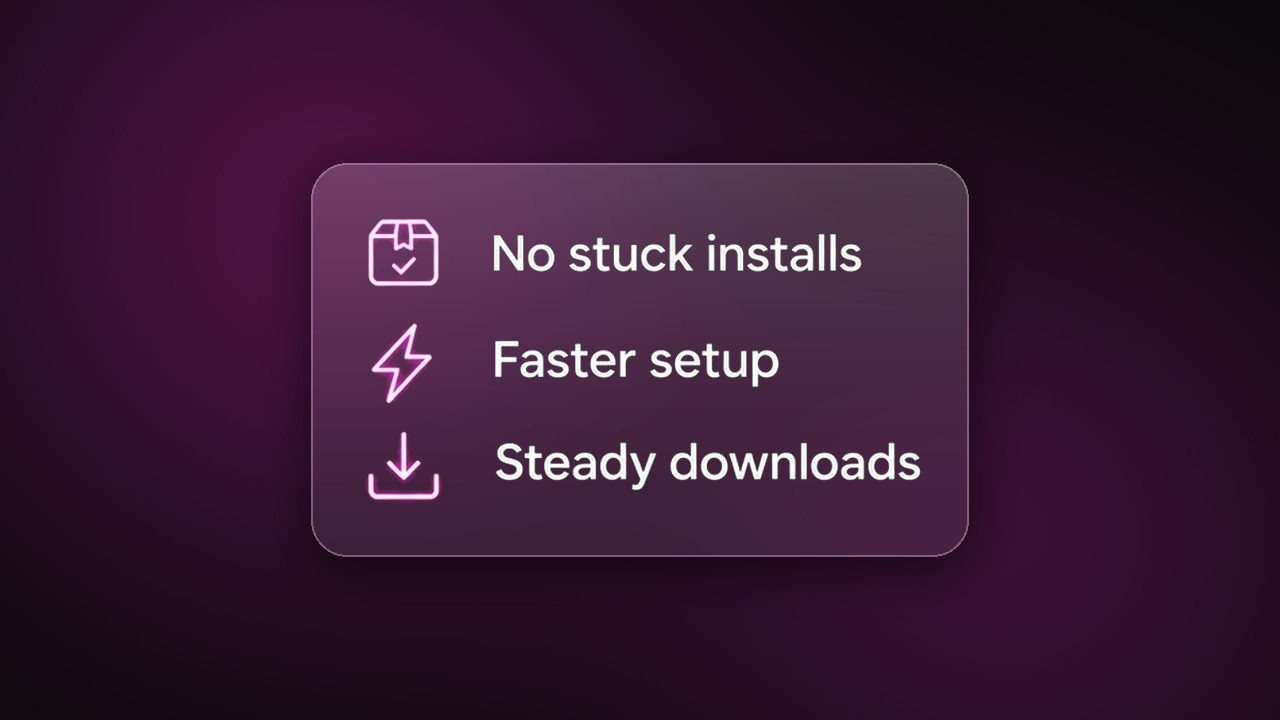
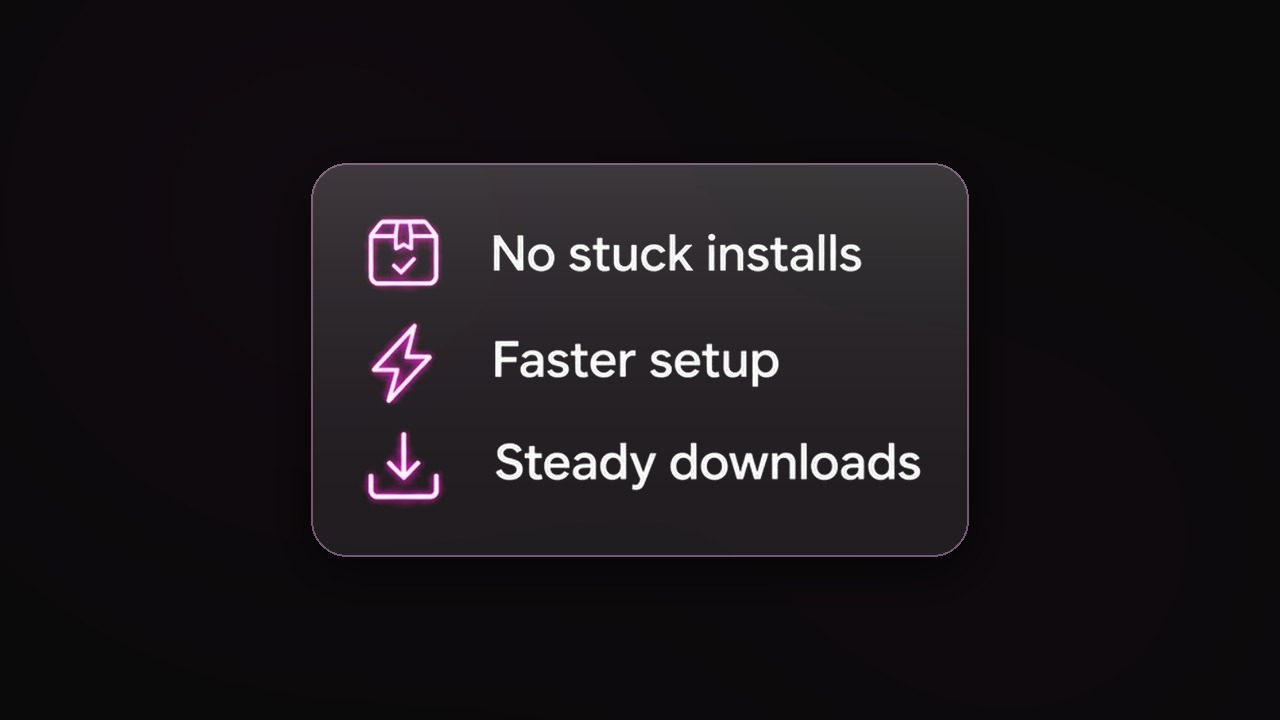
What's new pictures: faded black background behind the glass

diff --git a/tools/whatsnew_glass.py b/tools/whatsnew_glass.py
@@ -7,13 +7,13 @@ im = Image.open(src).convert("RGB"); a = np.asarray(im).astype(float)
 sat = a.max(2) - a.min(2); m = sat > 80
 col = a[m].mean(0) if m.any() else np.array([120, 120, 255])
 W, H = im.size
-# background: deep near-black with soft colour glows
+# background: faded black (Sam: keep it black)
 y, x = np.mgrid[0:H, 0:W]
 bg = np.zeros((H, W, 3))
-for cx, cy, r, k in ((0.25, 0.3, 0.55, 0.55), (0.8, 0.75, 0.5, 0.4)):
+for cx, cy, r, k in ((0.25, 0.3, 0.55, 0.06), (0.8, 0.75, 0.5, 0.04)):
     d = np.exp(-(((x / W - cx) ** 2 + ((y / H - cy) * H / W) ** 2) / (r * r * 0.35)))
     bg += d[..., None] * col * k
-bg += 8
+bg += 10  # a faded black, only a hint of the colour
 base = Image.fromarray(np.clip(bg, 0, 255).astype("uint8"))
 # glass panel around the content
 ys, xs = np.where(a.max(2) > 40)
